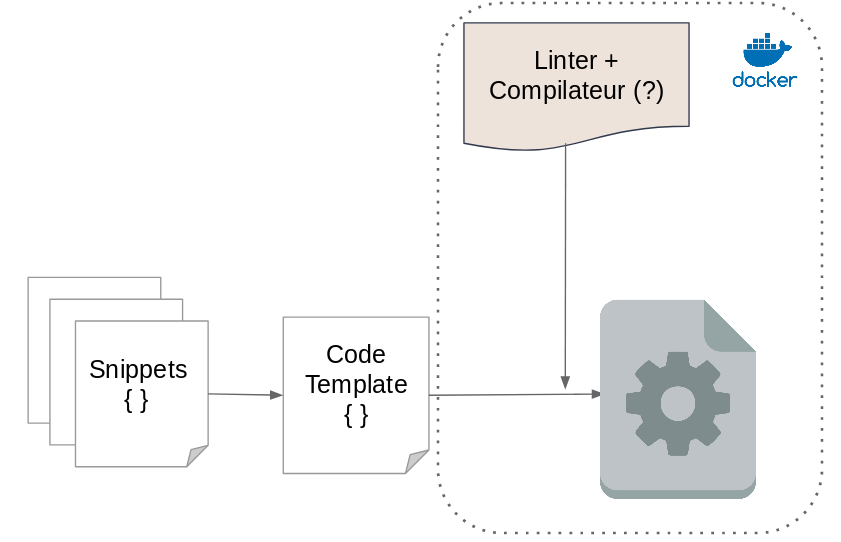
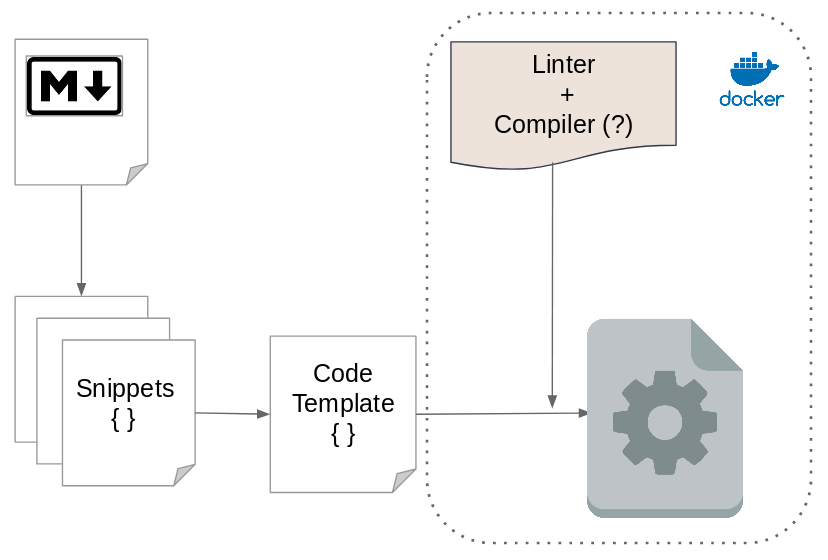
@xbill82 review

diff --git a/articles/testing-documentation-snippets/article.md b/articles/testing-documentation-snippets/article.md
@@ -1,31 +1,31 @@
 # The moment we decided to test our documentation snippets
 
 
-At Kuzzle we love testing everything: our code, our U.I, unitary, functionally and obviously automatically ... The last things remaining untested was our code snippets in our documentation!
+At Kuzzle we love testing everything: our code as well as our UI, both with unit and end-to-end tests. And of course, everything must be automated. The only thing that remained untested was our code snippets in our documentation!
 
-I've passed the last month to develop a tiny tests framework. And I really want to share my experience with the community. In fact, I decided to write this article because when I try to find some blogs or something else deal with this subject, I found nothing!  
+I've spent the last month developing a new test framework and I really want to share my experience with the community. In fact, I decided to write this article because when I searched the web for information about how to test code snippets... I found nothing!  
 
 
 ## How it all started ?
 
-So, let's begin with a little story. At kuzzle we develop many SDKs in many languages to help developers using our product. And who say SDKs, say we have to write their documentation. And it's not an easy task!
+So, let's begin with a little story. At kuzzle we develop many SDKs in many languages to help developers using our product. When you say SDK, you say documentation you have to write. And it's not an easy task!
 
-With the team we do meetings and workshops to decide important points and priorities in our road-map. And this time the subject of our meetings was “shame”! Indeed, we tried to help a developer using our tools and redirect him to our documentation. He tries to copy/paste some code snippets ... run his code ... and ... nothing happens ... only a huge amount of error messages. After many try, we were forced to admit it: parts of our documentation was broken. In fact, we made changes in our SDKs and we forgot to update the corresponding documentation.
+With the team we do meetings and workshops to prioritize points in our roadmap. And this time the subject of our meetings was “shame”! The week before, we redirected a developer asking for help to our documentation. He copy/pasted the snippet, ran the code... Nothing happened. He just got a bunch of errors. After trying it ourselves, we had to admit our docs were broken. In fact, we made changes in our SDKs and we forgot to update the corresponding documentation.
 
 ![great](./images/great.jpeg)
 
-All the team agreed on one points. We need to refund our documentation! We also decide that we want our SDKs snippets have to be tested functionally to make our documentation easier to maintains. And also preventing breaking changes with the releases of the next versions of our SDKs.
+All the team agreed on one point.We needed to rewrite our documentation! We also decided to perform integration tests on our snippets to make our documentation more reliable. And also preventing breaking changes with the releases of the next versions of our SDKs.
 
-This task seemed to be my job. Because all eyes turned to me when the decision was taken. And above all I'm in charge to maintain and improve the documentation. At this point I have no idea of how I can make this miracle happen. My first reflex was to search on the web: nothing. I finally found one article speaking about testing documentation, but very briefly and it concludes that is a very good idea but also a very complicate one.
+This task seemed to be my job. Because all eyes turned to me when the decision was taken. And above all I'm in charge to maintain and improve the documentation. At this point I had no idea of how I could make this miracle happen. My first reflex was to search on the web: nothing. I finally found one article speaking about testing documentation, but very briefly and it concludes that is a very good idea but also a very complicate one.
 
-So here I am, I have to develop an end to end testing framework plugged on our documentation. Its have to be easy for redactors to write snippets and also easy to tests them in each language our SDKs was released. With the help of our favorite scrum master (special thanks to Eric). We slice this labor in many tasks. Things began to be real!
+So here I am, I have to develop an end to end testing framework plugged on our documentation. It has to be easy for copywriters to write snippets and also easy to tests them in each language our SDKs was released. With the help of our favorite scrum master (special thanks to Eric), we sliced this labor in atomic tasks: things are about to get real!
 
 
 ## Writting documentation and snippets has to be easy
 
-The first task I have to make is to create a system easy to use for writing snippets. We use Metalsmith to generate our documentation website. It's a great tool and it uses Markdown to generate static HTML website. Our actual documentation use snippets written directly in Markdown. First, step was to take out the snippets and put them in a separate file with the corresponding extension for each language (mySnippet.js, mySnippet.go …). And after that, I just had to develop a tiny Metalsmith plugin to insert snippet code in markdown. With this plugin, when we have to write a snippet, we just need to add a special tag in the markdown: **“[snippet=feature_name]”** and the plugin automatically inject the content of all the snippets files contained in the **snippet** folder to the generated HTML.
+My first task was to create a system that made snippet writing easy. We use Metalsmith to generate our documentation website. It's a great tool and it uses Markdown to generate static HTML pages. Our current documentation use snippets written directly in Markdown. The First step was to take out the snippets and put them in a separate file with the corresponding extension for each language (mySnippet.js, mySnippet.go …). And after that, I just had to develop a tiny Metalsmith plugin to insert the code snippet in markdown. The plugin seeks the `[snippet=feature_name]` tag within the markdown files and replaces it with the snippets it finds in the `snippet` folder.
 
-Here we are, we have a working markdown templating system with real source code files as  snippets examples, able to generate HTML.
+We are now able to generate a static HTML website from a markdown templating system using real source code files as example snippets.
 
 ![schema1](./images/schema1.png)
 
@@ -64,18 +64,18 @@ const kuzzle = new Kuzzle('websocket', {
 
 ```
 
-The tag **[snippet-code]** in the template will be replaced by the snippet and will form a full context file which can be executed.
+The tag `[snippet-code]` in the template will be replaced by the snippet and will form a fully executable source code file.
 
 ![schema2](./images/schema2.png)
 
 
-At this point, we have many source files, in many languages. First version of this new documentation system can support snippets test for Javascript, Java, C++ and Go. Some languages are interpreted, others compiled. All of them need their dedicated toolchain !
+At this point, we have many source files, in many languages. The first version of this new documentation system can support snippets test for Javascript, Java, C++ and Go. Some languages are interpreted, others compiled. All of them need their dedicated toolchain !
 
 ![use docker](./images/use-docker.jpg)
 
-First thing I do is to create a DockerFile for each language implemented with all the toolchain to compile/interpret generated file. Also, we decided to add a linter in each container for each language to be sure to have a correct syntax and minimize source of errors (you can see an exemple of a dockerfile [here](https://hub.docker.com/r/kuzzleio/documentation-v2/~/dockerfile/)).
+The first thing I did was creating a Dockerfile for each supported language containing the whole toolchain to compile/interpret the generated file.We also decided to add a linter in each container to unify the coding style and minimize errors (you can see an exemple of a dockerfile [here](https://hub.docker.com/r/kuzzleio/documentation-v2/~/dockerfile/)).
 
-At this point, we had some docker containers able to run code for their dedicated language and things seem to work perfectly!
+At this point, we could run each snippet in its dedicated container and things seem to work perfectly!!
 
 ![schema3](./images/schema3.png)
 
@@ -84,11 +84,11 @@ At this point, we had some docker containers able to run code for their dedicate
 
 ![doge](./images/doge.png)
 
-Next task was to implement the test system properly speaking. How to test all of these languages with one test definition? Finally that's simple, all languages can write in the standard output. Javascript has his `console.log`, C++ his `std::cout`, Go his `fmt.Println` etc, etc ... With the help of my teammates we decided to use **Expect** to check if the tests are passed or not.
+Next task was to implement the test system properly speaking. How to test all of these languages with one test definition? Finally that's simple: all languages can write in the standard output. Javascript has `console.log`, C++ `std::cout`, Go `fmt.Println` etc, etc ... With the help of my teammates we decided to use **Expect** to check if the tests are passed or not.
 
 > *From wikipedia :* Expect is an automation and non-regression testing tool written by Don Libes as an extension to the Tcl scripting language to test interactive applications like telnet, ftp, passwd, fsck, rlogin, ssh, or others.
 
-Running tests is simple, we give to expect a command to execute, also a string expected and it can do assertion on the result of the command.
+Running tests is simple, tell Expect the command to execute and our assertions on the resulting standard output.
 
 ![schema expect](./images/schema-expect.png)
 
@@ -105,7 +105,7 @@ template: default
 expected: Successfully connected
 ```
 
-I found a cool Node.js package on NPM named [Nexpect](https://github.com/nodejitsu/nexpect). Then, I wrote a Node.js script for running tests for each language. For an easy implementation of every languages I make an abstract Tester class and I implement a children class for each language with lint and run command. In this way if we want to add another language for our SDKs it's very easy to just create a class and extend it to the mother tester class and only override commands to be executed for this new language.
+I found a cool Node.js package on NPM named [Nexpect](https://github.com/nodejitsu/nexpect). Then, I wrote a Node.js script for running tests for each language. For an easy implementation of every languages I made an abstract Tester class and I implement a children class for each language with `lint` and `run` command. In this way if we want to add another language for our SDKs it's very easy to create a new `Tester` by just extending the mother tester class and only override the commands to be executed for this new language.
 
 Here, the abstract class
 
@@ -153,7 +153,7 @@ And finally the last schema with the full process
 
 ## Continuous integration and validation
 
-The last step and not the least was to put all of this process in a CI/CD workflow. At Kuzzle we use a Git-flow process. Each change in our documentation leads to a pull-request. And for each pull-request, we use Travis CI to run all containers for each language. I also add a report system to easily see which test was failed.
+The last step and not the least was to put all of this process in a CI/CD workflow. At Kuzzle we use a Git-flow process. Each change in our documentation leads to a pull-request. And for each pull-request, we run all the tests for each language in Travis CI. I also added a report system to easily see which test was failed.
 
 ![reports](./images/reports.png)
 
@@ -161,13 +161,13 @@ Additionally, Alex our team's devOps guy(aka "AWS lambda gardener") developed a 
 
 ![kuttlefish](./images/kuttlefish.png)
 
-[here](https://github.com/alexandrebouthinon/kuttlefish) a link to the repository of this tool (named "Kuttlefish").
+[you could add credits to Alex here](https://github.com/alexandrebouthinon/kuttlefish).
 
 
 ## Conclusion
 
-In conclusion, it was a great experience! And of course, not only mine. All the Kuzzle team was very implicated in the development of our new documentation system. We made many meetings to deliberate to the better way to implement all of this process.
+In conclusion, it was a great experience! And of course, not only mine. All the Kuzzle team got involved in the development of our new documentation system. We made a lot of meetings to decide what was the beat way to implement all of this process.
 
-At first it was just a P.O.C and as we go along everything begin to works very well! We begin to support more languages. Also, we begin to find problems in the workflow like how to test documentation with many versions of our SDKs. We were forced to change things along the way to answer as well as possible to our needs. On top of that, we try to reduce the difficulty of writing the documentation. For example, Adrien, another member of the Kuzzle team developed a scaffolding tool which greatly improves drafting.
+At first it was just a P.O.C and, as we worked more and more on it, the system became more and more reliable! At the point that we are planning to support more languages. We are currently dealing with problems in the workflow, like how to take into account different versions of the SDKs. We were forced to change things along the way to answer as well as possible to our needs. On top of that, we try to reduce the difficulty of writing the documentation. For example, Adrien developed an awesome scaffolding tools that greatly improves drafting.
 
 Now, our new documentation is under progress! And you can see the results [here](docs-v2.kuzzle.io)
